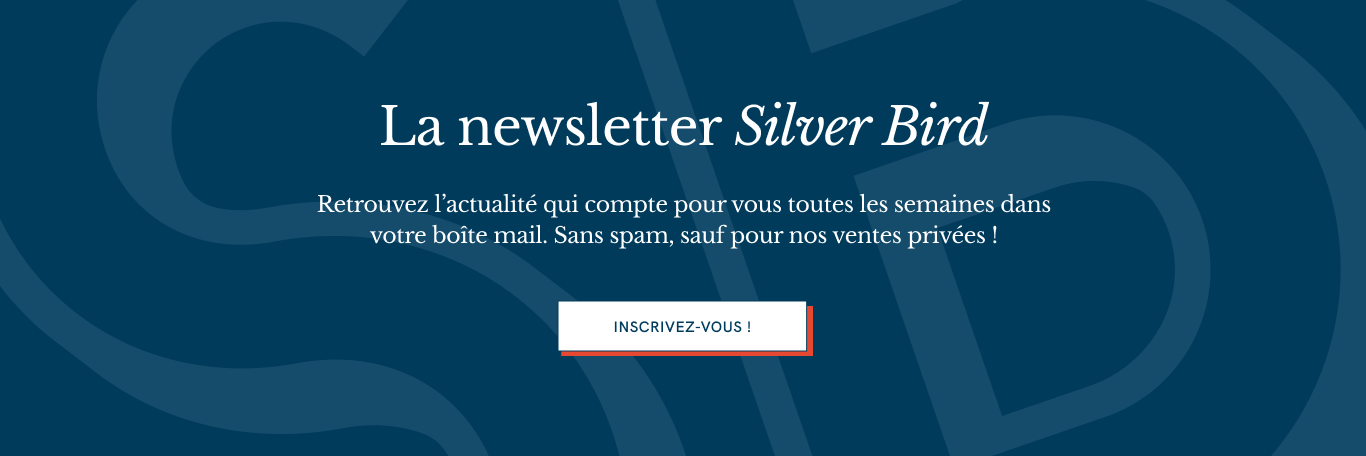
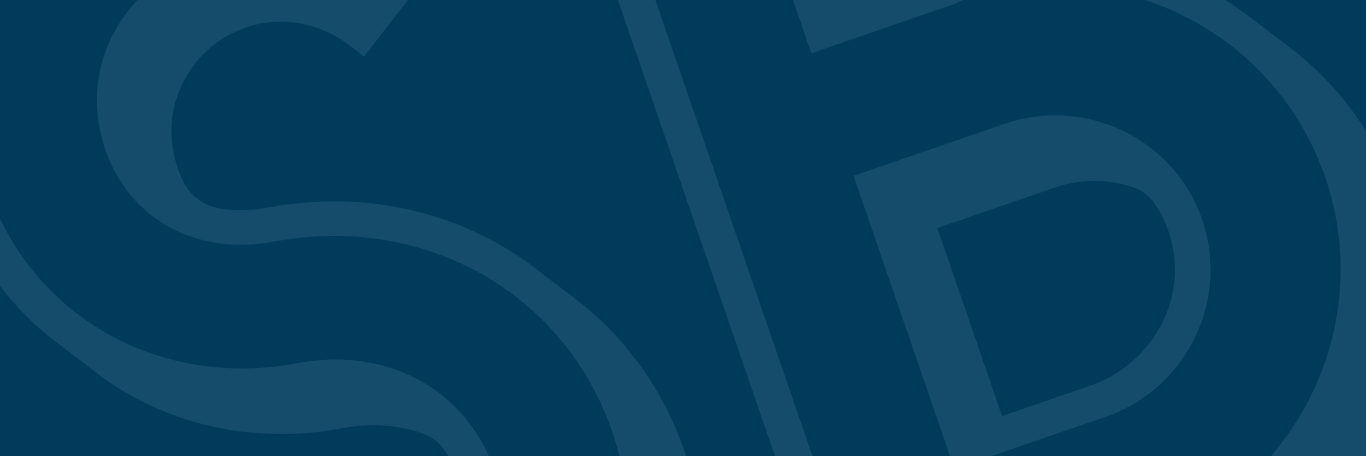
-Ajout de la partie sport

Changed region(s): [[0.2152, 0.4298, 0.7687, 0.5526], [0.2767, 0.2149, 0.7379, 0.3377], [0.3997, 0.6447, 0.6149, 0.7982]]

diff --git a/css/style.css b/css/style.css
@@ -172,7 +172,7 @@ table {
 }
 a {
   text-decoration: none;
-  font-family: HK Grotesk;
+  font-family: 'HK Grotesk';
   font-style: normal;
   font-weight: 600;
   font-size: 12px;
@@ -186,7 +186,7 @@ a {
 }
 
 h3 {
-  font-family: HK Grotesk;
+  font-family: 'HK Grotesk';
   font-style: normal;
   font-weight: 600;
   font-size: 12px;
@@ -308,7 +308,7 @@ p {
   text-align: center;
   left: 10%;
   padding: 3%;
-  font-family: HK Grotesk;
+  font-family: 'HK Grotesk';
   font-style: normal;
   font-weight: 600;
   font-size: 12.031px;
@@ -371,7 +371,7 @@ p {
 .articles-header {
   width: 100%;
   position: relative;
-  margin: 0.5rem auto 1.5rem;
+  margin: 1% auto 3%;
 }
 .articles-header-list {
   display: flex;
@@ -381,12 +381,6 @@ p {
   width: 100%;
 }
 
-.article {
-  width: 100%;
-  -webkit-box-flex: 1;
-  -ms-flex: 1 1 auto;
-  flex: 1 1 auto;
-}
 .article-header {
   display: flex;
   margin-left: 1%;
@@ -399,13 +393,11 @@ p {
 }
 
 .article-header h5 {
-  font-family: HK Grotesk;
+  font-family: 'HK Grotesk';
   font-style: normal;
   font-weight: 600;
   font-size: 12.031px;
   line-height: 15px;
-  /* identical to box height */
-
   text-align: center;
   letter-spacing: 0.4px;
 
@@ -422,7 +414,7 @@ p {
 }
 
 .articles-title-text {
-  font-family: HK Grotesk;
+  font-family: 'HK Grotesk';
   font-style: normal;
   font-weight: 600;
   font-size: 24px;
@@ -445,7 +437,7 @@ p {
 }
 
 .articles-header-item h4 {
-  font-family: HK Grotesk;
+  font-family: 'HK Grotesk';
   font-style: normal;
   font-weight: 600;
   font-size: 12.031px;
@@ -460,7 +452,7 @@ p {
 
 .article-link {
   text-transform: uppercase;
-  font-family: HK Grotesk;
+  font-family: 'HK Grotesk';
   font-style: normal;
   font-size: 12px;
   line-height: 15px;
@@ -475,7 +467,7 @@ p {
 
 .article-content p {
   text-align: left;
-  font-family: Libre Baskerville;
+  font-family: 'Libre Baskerville';
   font-style: normal;
   font-weight: normal;
   font-size: 22px;
@@ -496,6 +488,69 @@ p {
   grid-template-rows: 1fr;
   gap: 0% 5%;
   grid-template-areas: '. . .';
+}
+
+.news {
+  position: relative;
+  width: 100%;
+  height: 450px;
+  background-image: url('/images/NEWSLETTER.png');
+  background-size: cover;
+  background-repeat: no-repeat;
+}
+
+.news-content {
+  position: absolute;
+  text-align: center;
+  top: 50%;
+  left: 50%;
+  transform: translate(-50%, -50%);
+}
+
+.news-content h2 {
+  font-family: Libre Baskerville;
+  font-style: normal;
+  font-weight: normal;
+  font-size: 52px;
+  line-height: 54px;
+  text-align: center;
+  letter-spacing: -0.866667px;
+  color: #ffffff;
+}
+
+.news-content .italic {
+  font-style: italic;
+}
+
+.news-content p {
+  font-family: 'Libre Baskerville';
+  font-style: normal;
+  font-weight: normal;
+  font-size: 22px;
+  line-height: 31px;
+  text-align: center;
+  letter-spacing: -0.4px;
+  margin: 5% 0;
+
+  color: #ffffff;
+}
+
+.news-content a {
+  margin-top: 2%;
+  color: #003b5c;
+  border: 2px solid #e74832;
+  background-color: white;
+  padding: 1% 3%;
+  font-family: 'HK Grotesk';
+  font-style: normal;
+  font-weight: 600;
+  font-size: 15.031px;
+  line-height: 19px;
+
+  text-align: center;
+  letter-spacing: 0.499742px;
+
+  color: #003b5c;
 }
 
 @media (max-width: 768px) {

diff --git a/index.html b/index.html
@@ -238,6 +238,14 @@
       </div>
     </div>
   </section>
+  <section class="news">
+    <div class="news-content">
+      <h2>La newsletter <span class="italic">Silver Bird</span></h2>
+      <p>Retrouvez l’actualité qui compte pour vous toutes les semaines dans votre boîte mail. Sans spam, sauf pour nos
+        ventes privées !</p>
+      <a href="">INSCRIVEZ VOUS</a>
+    </div>
+  </section>
   <section class='articles'>
     <div class='articles-title'>
       <div class='articles-title-bar'></div>
